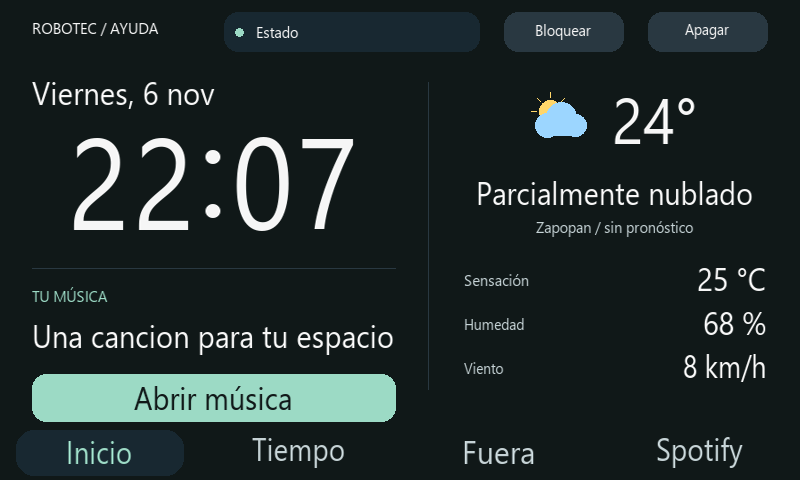
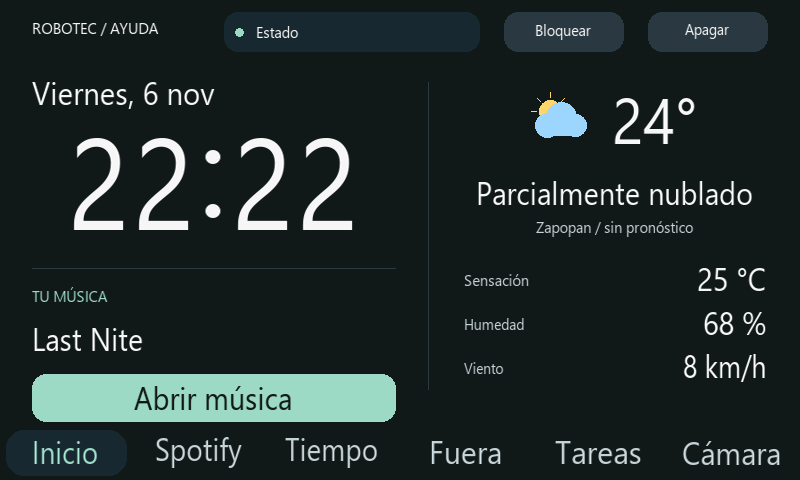
Rediseña Spotify y da acceso directo a tareas y cámara

diff --git a/editorial_views.py b/editorial_views.py
@@ -7,7 +7,7 @@ from settings import GITHUB_USER, LOCATION
 from music_state import position_ms, control_ready
 from experience import AWAY_LABELS
 
-TABS = [('home','Inicio'),('time','Tiempo'),('away','Fuera'),('music','Spotify')]
+from navigation import TABS,tab_bounds
 PIN_X, PIN_Y, PIN_DX, PIN_DY = 416,116,112,70
 
 
@@ -39,7 +39,7 @@ class EditorialViews:
             self.dirty=False;return
         if self.screen=='notion':
             self.soft_button('notionrefresh',496,12,120,40,'Actualizar')
-            self.soft_button('notionback',632,12,136,40,'Volver')
+            self.soft_button('notionback',632,12,136,40,'Inicio')
             self.dirty=False; return
         if self.screen in ('gallery','gallery_grid','viewfinder','photo_show'):
             self.text('brand',32,14,178,32,2,'ROBOTEC / AYUDA',c['ink'],c['bg'])
@@ -47,7 +47,7 @@ class EditorialViews:
             if getattr(self,'_photo_action',None):
                 self.soft_button('galleryback',632,12,136,40,'Volver')
                 self.dirty=False; return
-            self.soft_button('galleryback',632,12,136,40,{'gallery':'Álbum','gallery_grid':'Cámara','viewfinder':'Volver','photo_show':'Álbum'}[self.screen])
+            self.soft_button('galleryback',632,12,136,40,{'gallery':'Álbum','gallery_grid':'Cámara','viewfinder':'Inicio','photo_show':'Álbum'}[self.screen])
             if self.screen=='gallery_grid': self.soft_button('showstart',496,12,120,40,'Presentar')
             if self.screen=='gallery':self.soft_button('photooptions',496,12,120,40,'Opciones')
             self.dirty=False; return
@@ -74,9 +74,10 @@ class EditorialViews:
             if self.screen=='status': self.soft_button('cameraopen',496,12,120,40,'Cámara')
             for i,(view,title) in enumerate(TABS):
                 selected=view==self.screen or (view=='music' and self.screen in ('music_options','library')) or (view=='time' and self.screen=='focus')
+                left,right=tab_bounds(i)
                 if selected:
-                    self.panel('navpill'+view,i*200+16,430,168,46,c['card'],18)
-                self.text('nav'+view,i*200+30,433,140,40,0,title,c['mint'] if selected else c['muted'],c['card'] if selected else c['bg'],1)
+                    self.panel('navpill'+view,left+6,430,right-left-12,46,c['card'],18)
+                self.text('nav'+view,left+14,433,right-left-28,40,0,title,c['mint'] if selected else c['muted'],c['card'] if selected else c['bg'],1)
         if self.screen=='home':
             self.fill(428,82,1,308,c['button'])
             self.fill(32,268,364,1,c['button'])
@@ -184,30 +185,36 @@ class EditorialViews:
         self.text('return',32,400,736,23,2,'Aviso de regreso · panel bloqueado · Spotify detenido',c['muted'],c['bg'],1)
 
     def draw_music(self,music):
-        c=self.theme; self.art('music',40,80,240)
-        title=self.scrolling_title('music',music['title'],448,0)
-        self.text('musictitle',320,80,448,72,0,title,c['ink'],c['bg'])
-        self.text('musicartist',320,166,448,38,0,self.fit(music['artist'],448,0),c['muted'],c['bg'])
-        self.text('musiccontext',320,209,448,24,2,self.fit(music.get('context') or 'Spotify Connect',448),c['mint'],c['bg'])
+        c=self.theme; self.art('music',496,72,272)
+        self.text('playing',32,72,432,26,2,self.fit(self.music_label(music),432),c['mint'],c['bg'])
+        title=music['title']; big=self.text_width(title,1)<=432
+        if self.cache.get('titlelayout')!=big:
+            self.fill(32,104,432,100,c['bg'])
+            for key in ('musictitlebig','musictitle0','musictitle1'):self.cache.pop(key,None)
+            self.cache['titlelayout']=big
+        if big:self.text('musictitlebig',32,104,432,100,1,title,c['ink'],c['bg'])
+        else:self.paragraph('musictitle',32,112,432,title,2,0)
+        self.text('musicartist',32,210,432,40,0,self.fit(music['artist'],432,0),c['muted'],c['bg'])
+        self.text('musiccontext',32,255,432,24,2,self.fit(music.get('context') or 'Spotify Connect',432),c['muted'],c['bg'])
         ms=position_ms(music); duration=music.get('duration',0)
-        self.text('elapsed',320,238,140,24,2,f'{int(ms)//60000}:{int(ms)//1000%60:02}',c['muted'],c['bg'])
-        self.text('tracklength',628,238,140,24,2,f'{duration//60000}:{duration//1000%60:02}',c['muted'],c['bg'],2)
-        self.progress('trackprogress',320,267,448,ms/max(1,duration),c['mint'])
-        for key,x,icon,selected in [('prev',434,'prev',False),('toggle',544,'pause' if music['status']=='playing' else 'play',True),('next',654,'next',False)]:
-            self.icon_button(key,x,319,34 if selected else 26,icon,selected and control_ready(music),control_ready(music))
-        self.text('playing',32,331,256,42,2,self.fit(self.music_label(music),256),c['mint'],c['bg'],1)
         ready=control_ready(music)
-        assist=(ready,music.get('logged_in',False),bool(getattr(self,'music_pending',None)))
-        if self.cache.get('musicassiststate')!=assist:
-            self.fill(32,374,256,44,c['bg']); self.cache.pop('activity:music',None)
-            self.cache.pop('button:musichelp',None); self.cache.pop('musichelp',None); self.cache['musicassiststate']=assist
-        if not ready:
-            title='Conectando...' if assist[2] else 'Escuchar aquí' if assist[1] else '¿Cómo conectar?'
-            font=0 if self.text_width(title,0)<=228 else 2
-            self.soft_button('musichelp',32,374,256,44,title,True,font)
-        self.text('volumelabel',320,373,84,30,2,'Volumen',c['muted'],c['bg'])
-        self.progress('volumeprogress',410,384,258,music['volume']/100,c['muted'])
-        self.text('volume',680,369,88,38,0,str(music['volume'])+'%',c['ink'],c['bg'],2)
+        if self.cache.get('musicassiststate')!=ready:
+            self.fill(32,288,432,56,c['bg'])
+            for key in ('elapsed','tracklength','delta:trackprogress','button:musichelp','musichelp'):self.cache.pop(key,None)
+            self.cache['musicassiststate']=ready
+        if ready:
+            self.text('elapsed',32,290,140,24,2,f'{int(ms)//60000}:{int(ms)//1000%60:02}',c['muted'],c['bg'])
+            self.text('tracklength',324,290,140,24,2,f'{duration//60000}:{duration//1000%60:02}',c['muted'],c['bg'],2)
+            self.progress('trackprogress',32,323,432,ms/max(1,duration),c['mint'])
+        else:
+            title='Conectando...' if getattr(self,'music_pending',None) else 'Escuchar aquí' if music.get('logged_in',False) else '¿Cómo conectar?'
+            self.soft_button('musichelp',32,288,432,48,title,True,0)
+        self.panel('musicdock',32,356,736,64,c['card'],22)
+        for key,x,icon,selected in [('prev',80,'prev',False),('toggle',152,'pause' if music['status']=='playing' else 'play',True),('next',224,'next',False)]:
+            self.icon_button(key,x,388,30 if selected else 24,icon,selected and ready,ready,surface=c['card'])
+        self.text('volumelabel',296,367,100,40,2,'Volumen',c['muted'],c['card'])
+        self.progress('volumeprogress',410,384,234,music['volume']/100,c['mint'])
+        self.text('volume',664,367,88,40,0,str(music['volume'])+'%',c['ink'],c['card'],2)
 
     def draw_music_options(self,music):
         c=self.theme; options=music.get('options',{}); repeat=options.get('repeat','off')

diff --git a/tests/test_player_layout.py b/tests/test_player_layout.py
@@ -1,0 +1,54 @@
+"""Navegación directa y controles del reproductor en su composición actual."""
+import unittest
+from unittest.mock import Mock
+from test_dashboard import hub
+
+class PlayerLayoutTests(unittest.TestCase):
+    def tap(self,h,x,y):h.last_touch=0;h.touch(x,y)
+
+    def test_six_destinations_available_from_main_screens(self):
+        for source in ('home','music','time','away','status'):
+            for x,target in ((65,'home'),(200,'music'),(333,'time'),(466,'away'),(600,'notion'),(733,'viewfinder')):
+                h=hub();h.navigate(source);h.camera=Mock();h._notion_selected={'title':'Anterior'}
+                self.tap(h,x,450);self.assertEqual(h.screen,target,(source,target))
+                h.camera.start_preview.assert_not_called();h.camera.capture.assert_not_called()
+                if target=='notion':self.assertIsNone(h._notion_selected)
+
+    def test_locked_navigation_cannot_open_tasks_or_camera(self):
+        for x in (600,733):
+            h=hub();h.unlocked=False;h.navigate('lock');self.tap(h,x,450)
+            self.assertEqual(h.screen,'lock');self.assertFalse(h.unlocked)
+
+    def test_footer_labels_fit_actual_firmware_font(self):
+        h=hub();h.screen='home';commands=[];h.send=commands.append;h.render()
+        labels=[]
+        for cmd in commands:
+            if not cmd.startswith('xstr '):continue
+            p=cmd[5:].split(',',10);x,y,w,height,font=map(int,p[:5]);label=p[10].strip('"')
+            if y==433:
+                labels.append(label);self.assertLessEqual(h.text_width(label,font),w,label)
+                self.assertLessEqual(x+w,800);self.assertLessEqual(y+height,480)
+        self.assertEqual(labels,['Inicio','Spotify','Tiempo','Fuera','Tareas','Cámara'])
+
+    def test_transport_and_full_volume_range(self):
+        h=hub();h.screen='music'
+        for x,y,expected in ((80,388,['prev']),(152,388,['play']),(224,388,['next']),
+                             (410,388,['volume','0']),(643,388,['volume','100'])):
+            self.tap(h,x,y);self.assertEqual(h.music_commands.get_nowait()['command'],expected)
+
+    def test_help_area_becomes_seek_only_after_local_playback_ready(self):
+        h=hub();h.screen='music';h.music.update(is_active=False,_ready=False,logged_in=False)
+        self.tap(h,248,323);self.assertEqual(h.screen,'help');self.assertTrue(h.music_commands.empty())
+        h.navigate('music');h.music.update(is_active=True,_ready=True,logged_in=True)
+        self.tap(h,248,323);self.assertEqual(h.music_commands.get_nowait()['command'],['seek','100000'])
+
+    def test_short_title_clears_both_old_title_lines(self):
+        h=hub();h.screen='music';h.music['title']='Una canción con un título suficientemente largo para ocupar dos líneas'
+        h.render();commands=[];h.send=commands.append;h.music['title']='Luz';h.render()
+        self.assertTrue(any(c.startswith('fill 32,104,432,100,') for c in commands))
+        self.assertTrue(any('"Luz"' in c and ',1,' in c for c in commands))
+        self.assertFalse(any(c.startswith('cls ') for c in commands))
+
+    def test_tasks_return_directly_home(self):
+        h=hub();h.navigate('notion');h.notion=None;self.tap(h,690,32)
+        self.assertEqual(h.screen,'home')

diff --git a/robotec.py b/robotec.py
@@ -46,7 +46,7 @@ def rgb(hexcolor):
 
 BG,CARD,INK,MUTED,MINT,BUTTON=[rgb(v) for v in ('111A1E','1C2A31','F3F5F3','C5D2D6','9ADBC7','293B44')]
 BLUE,GOLD,CORAL,LILAC=[rgb(v) for v in ('9FD4FF','FFD66F','FFB18D','D3D8C0')]
-TABS = [('home','Inicio'),('time','Tiempo'),('away','Fuera'),('music','Spotify')]
+from navigation import TABS,tab_target
 COUNT_FONT=3
 
 def weather_pixels(kind):
@@ -418,8 +418,10 @@ class Robotec(VideoViews, NotionViews, TimerViews, IdleControl, FriendlyUI, Focu
                 self.save(); self.compact=False; self.navigate(self.screen)
             return
         if y >= 424:
-            i=x//200
-            if 0 <= i < 4: self.navigate(TABS[i][0])
+            target=tab_target(x)
+            if target:
+                if target=='notion':self._notion_selected=None
+                self.navigate(target)
             return
         if self.screen=='home':
             if 32<=x<396 and 374<=y<424: self.navigate('music')
@@ -451,13 +453,13 @@ class Robotec(VideoViews, NotionViews, TimerViews, IdleControl, FriendlyUI, Focu
                 options=m.get('options',{})
                 if 488<=x<752 and 159<=y<211: command=['shuffle','off' if options.get('shuffle') else 'on']
                 elif 488<=x<752 and 231<=y<283: command=['repeat',{'off':'context','context':'track','track':'off'}.get(options.get('repeat','off'),'off')]
-            elif 255<=y<279 and 320<=x<768:
-                if m.get('duration',0): command=['seek',str(round((x-320)/448*m['duration']))]
-            elif 285<=y<353:
-                for cx,action in [(434,'prev'),(544,'pause' if m['status']=='playing' else 'play'),(654,'next')]:
-                    if (x-cx)**2+(y-319)**2<=(34 if cx==544 else 28)**2: command=[action]
-            elif 365<=y<409 and 410<=x<668:
-                value=max(0,min(100,round((x-410)/258*100)))
+            elif 308<=y<344 and 32<=x<464:
+                if m.get('duration',0): command=['seek',str(round((x-32)/432*m['duration']))]
+            elif 356<=y<420 and x<272:
+                for cx,action in [(80,'prev'),(152,'pause' if m['status']=='playing' else 'play'),(224,'next')]:
+                    if (x-cx)**2+(y-388)**2<=(30 if cx==152 else 26)**2: command=[action]
+            elif 366<=y<414 and 410<=x<644:
+                value=max(0,min(100,round((x-410)/234*100)))
                 command=['volume',str(value)]
             if command: self.queue_music(command)
         elif self.screen=='github' and 346 <= y < 394:

diff --git a/soft_ui.py b/soft_ui.py
@@ -7,16 +7,18 @@ from font_metrics import text_width
 class SoftUI:
     text_width = staticmethod(text_width)
 
-    def icon_button(self,key,cx,cy,radius,icon,selected=False,enabled=True):
+    def icon_button(self,key,cx,cy,radius,icon,selected=False,enabled=True,surface=None):
         c=self.theme; bg=c['mint'] if selected else c['card']
+        underlay=c['bg'] if surface is None else surface
+        if surface is not None and not selected:bg=c['button']
         fg=c['bg'] if selected else c['ink']
         if not enabled:
-            selected=False; bg=c['bg']; fg=33808
-        style=(cx,cy,radius,icon,selected,enabled,fg,bg,c['bg'])
+            selected=False; bg=underlay; fg=33808
+        style=(cx,cy,radius,icon,selected,enabled,fg,bg,underlay)
         if self.cache.get('icon:'+key)==style: return
         if icon in ('play','pause','next','prev'):
             from visual_assets import player_commands
-            for command in player_commands(cx,cy,radius,icon,fg,bg,c['bg']): self.send(command)
+            for command in player_commands(cx,cy,radius,icon,fg,bg,underlay): self.send(command)
             self.cache['icon:'+key]=style
             return
         self.send(f'cirs {cx},{cy},{radius},{bg}')

diff --git a/tests/test_feature_navigation.py b/tests/test_feature_navigation.py
@@ -50,7 +50,7 @@ class FeatureNavigationTests(unittest.TestCase):
         value=hub(); value.camera=Mock(); value.navigate('status')
         self.touch(value,550,30); self.assertEqual(value.screen,'viewfinder')
         value.camera.capture.assert_not_called(); value.camera.probe.assert_not_called()
-        self.touch(value,690,30); self.assertEqual(value.screen,'status')
+        self.touch(value,690,30); self.assertEqual(value.screen,'home')
 
     def test_lock_cancels_camera_and_prevents_capture_routes(self):
         value=hub(); value.camera=Mock(); value.marker=Mock(); value.spotify_wake=Mock()
@@ -62,7 +62,7 @@ class FeatureNavigationTests(unittest.TestCase):
         value=hub(); value.navigate('music'); value.music.update(is_active=False,_ready=False)
         commands=[]; value.send=commands.append; value.render()
         self.assertTrue(any('Escuchar aquí' in command for command in commands))
-        self.touch(value,160,395)
+        self.touch(value,160,310)
         self.assertEqual(value.screen,'music')
         self.assertEqual(value.music_commands.get_nowait()['command'],['activate'])
 

diff --git a/experience.py b/experience.py
@@ -6,6 +6,7 @@ import socket
 import subprocess
 import time
 from music_state import connection_label, control_ready, position_ms
+from navigation import tab_target
 
 AWAY_LABELS=('Estoy fuera','En reunion','En el laboratorio')
 
@@ -172,7 +173,10 @@ class Experience:
             elif 350<=y<406 and 432<=x<768:
                 self.ambient_return='home'; self.navigate('ambient')
             elif y>=424:
-                self.navigate(['home','time','away','music'][min(3,x//200)])
+                target=tab_target(x)
+                if target:
+                    if target=='notion':self._notion_selected=None
+                    self.navigate(target)
             return True
         if not self.compact and 224<=x<480 and 12<=y<52 and self.screen not in ('lock','power','notion','videos'):
             self.navigate('status'); return True

diff --git a/tests/test_makeover.py b/tests/test_makeover.py
@@ -43,12 +43,12 @@ class LayoutTests(unittest.TestCase):
 
     def test_music_slider_and_transport_keep_separate_hit_areas(self):
         value=hub(); value.screen='music'
-        for x,y in [(320,319),(500,319),(700,319)]:
+        for x,y in [(300,388),(480,323),(700,319)]:
             value.last_touch=0; value.touch(x,y)
         self.assertTrue(value.music_commands.empty())
-        value.last_touch=0; value.touch(544,319)
+        value.last_touch=0; value.touch(152,388)
         self.assertEqual(value.music_commands.get_nowait()['command'],['play'])
-        value.last_touch=0; value.touch(539,385)
+        value.last_touch=0; value.touch(527,388)
         self.assertEqual(value.music_commands.get_nowait()['command'],['volume','50'])
 
     def test_alarm_field_selection_and_volume_do_not_change_spotify(self):

diff --git a/media_views.py b/media_views.py
@@ -135,7 +135,7 @@ class MediaViews:
         screen=self.screen
         if screen=='gallery_grid' and getattr(self,'_photo_action',None): return self.touch_photo_dialog(x,y)
         if 632<=x<768 and 12<=y<52:
-            self.navigate('status' if screen=='viewfinder' else 'viewfinder' if screen=='gallery_grid' else 'gallery_grid'); return True
+            self.navigate('home' if screen=='viewfinder' else 'viewfinder' if screen=='gallery_grid' else 'gallery_grid'); return True
         if screen=='gallery_grid':
             if 344<=x<568 and 58<=y<96:self._group_page=0;self.photo_dialog('collections');return True
             if 600<=x<768 and 58<=y<96:

diff --git a/tests/test_friendly.py b/tests/test_friendly.py
@@ -60,7 +60,7 @@ class FriendlyTests(unittest.TestCase):
         value=hub(); value.screen='music'; value.music.update(is_active=False,_ready=False,logged_in=False)
         commands=[]; value.send=commands.append; value.render()
         self.assertTrue(any('¿Cómo conectar?' in c for c in commands))
-        value.touch(160,395); self.assertEqual(value.screen,'help'); self.assertTrue(value.music_commands.empty())
+        value.touch(160,310); self.assertEqual(value.screen,'help'); self.assertTrue(value.music_commands.empty())
 
 
 class ForecastTests(unittest.TestCase):

diff --git a/friendly_ui.py b/friendly_ui.py
@@ -45,7 +45,7 @@ class FriendlyUI:
             self.navigate('home'); return True
         if not self.compact and self.screen not in ('ambient','duration','power') and 12<=y<52 and 32<=x<210:
             self.open_help(); return True
-        if self.screen=='music' and 32<=x<288 and 374<=y<418:
+        if self.screen=='music' and 32<=x<464 and 288<=y<336:
             with self.lock: ready=control_ready(self.music); logged_in=self.music.get('logged_in',False)
             if not ready:
                 if logged_in: self.request_selected_music()

diff --git a/tests/test_dashboard.py b/tests/test_dashboard.py
@@ -120,7 +120,7 @@ class ToolsTests(unittest.TestCase):
         self.assertFalse(value.unlocked); self.assertIsNone(value.notice); self.assertEqual(value.screen,'lock')
 
     def test_seek_and_shuffle_are_queued(self):
-        value=hub(); value.screen='music'; value.touch(544,267)
+        value=hub(); value.screen='music'; value.touch(248,323)
         self.assertEqual(value.music_commands.get_nowait()['command'],['seek','100000'])
         value.last_touch=0; value.touch(700,32)
         self.assertEqual(value.screen,'music_options')

diff --git a/navigation.py b/navigation.py
@@ -1,0 +1,10 @@
+"""Destinos principales y geometría compartida por dibujo y toque."""
+TABS=(('home','Inicio'),('music','Spotify'),('time','Tiempo'),
+      ('away','Fuera'),('notion','Tareas'),('viewfinder','Cámara'))
+
+def tab_bounds(index):
+    return index*800//len(TABS),(index+1)*800//len(TABS)
+
+def tab_target(x):
+    if not 0<=x<800:return None
+    return next(view for i,(view,_) in enumerate(TABS) if tab_bounds(i)[0]<=x<tab_bounds(i)[1])
